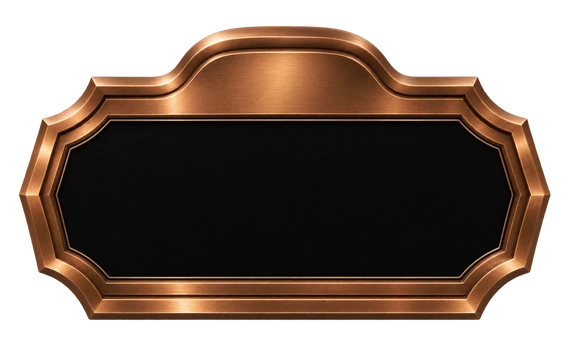
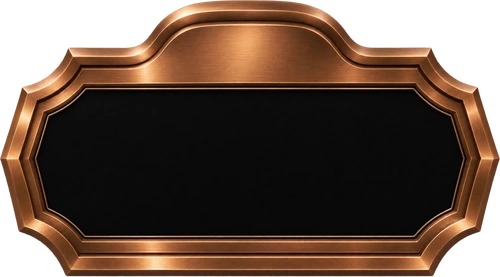
Normalized assets

diff --git a/Dev/BBGLDev.js b/Dev/BBGLDev.js
@@ -141,7 +141,7 @@
     // re-downloaded by the browser weekly. Pushing new or changed art to a pinned repo means
     // bumping its hash here, or the script keeps serving the old commit.
     const CDN_PINS = {
-        'BigBlackHawk42069/BigBlackGymLog': 'd7084ab11949755f6fe3bd76b860861589151a84'
+        'BigBlackHawk42069/BigBlackGymLog': 'c5b094c31c1bdea696364eb2d5e409561b9543b8'
     };
     const cdnize = u => u.replace(
         /^https:\/\/raw\.githubusercontent\.com\/([^/]+)\/([^/]+)\/(?:refs\/heads\/)?([^/]+)\//,
@@ -1714,11 +1714,10 @@
     const PLAQUE_BOARD_ART = { pineRaw: 'board-pine-raw', pine: 'board-pine', oak: 'board-oak', walnut: 'board-walnut' };
     const PLAQUE_DRAPE_ART = { canvas: 'drape-canvas', felt: 'drape-felt', velvet: 'drape-velvet' };
     const plaqueArtUrl = name => `url("${PLAQUE_ART_ROOT}${name}.webp")`;
-    // The images carry a margin for their own shadows: the board's is 12px round a 174 × 169 card, the
-    // drape's 6px round a 200 × 66 face (128 tall with the valance), so these insets put the art back
-    // where it was drawn at any card size.
-    const PLAQUE_BOARD_INSET = '-7.1% -6.9%';
-    const PLAQUE_DRAPE_INSET = `-9.06% -3% -${+((PLAQUE_VB_H / 96 - 1) * 100 + 9.06).toFixed(2)}% -3%`;
+    // The images are cropped to their visible pixels. The board fills the card; the drape spans x 6-234
+    // and y 5-100.5 of the fold lighting's 240 × 96-per-face-height grid, as % of the face.
+    const PLAQUE_BOARD_INSET = '0';
+    const PLAQUE_DRAPE_INSET = '1.04% 2.5% -0.52%';
     // One selector per step, joined: `suffix` targets a part of the card ('' for the card itself).
     const plaqueEach = (stages, suffix) => stages.map(s => `.bbgl-title-card.is-progressive[data-sign-stage="${s}"]${suffix}`).join(',\n');
     // One rule per distinct body, so steps that look the same share it. `body(step)` returns the
@@ -1800,35 +1799,35 @@
         plaqueRules(' .bbgl-title-card-title-label', step => PLAQUE_LETTERS[step.letters].label) +
         plaqueRules(' .bbgl-title-card-sign-face .bbgl-title-card-empty', step => PLAQUE_LETTERS[step.letters].label);
 
-    // Rank plates on the card, one image per finish. Each image is the plate plus a 14px shadow margin,
-    // so it's drawn on the label's ::before pushed out by that margin ([vertical, horizontal] % of the
-    // plate box); the face keeps its box, so the lettering and headings sit exactly as before. The image
-    // is also the face's mask, so the sweep and sheen stay on the plate's shape. Aluminum keeps its own
-    // aspect. The silver and gold surface lighting moves from the face to the label, so it lights the art.
+    // Rank plates on the card, one image per finish, cropped to the plate and fitted inside the plate box
+    // (contain, so a plate drawn narrower than its box isn't stretched). It sits on the label's ::before;
+    // the face keeps its box, so the lettering and headings sit exactly as before. The image is also the
+    // face's mask, so the sweep and sheen stay on the plate's shape. The silver and gold surface lighting
+    // moves from the face to the label, so it lights the art.
     const RANK_PLATE_ART = {
-        mill: ['plate-1-aluminum', 9.12, 9.91],
-        machined: ['plate-2-lightbox', 17.66, 9.41],
-        polished: ['plate-3-bronze', 15.54, 8.75],
-        silver: ['plate-4-silver', 15.54, 9.12],
-        gold: ['plate-5-gold', 14.92, 8.75],
-        pearl: ['plate-6-platinum', 14.92, 8.75]
+        mill: 'plate-1-aluminum',
+        machined: 'plate-2-lightbox',
+        polished: 'plate-3-bronze',
+        silver: 'plate-4-silver',
+        gold: 'plate-5-gold',
+        pearl: 'plate-6-platinum'
     };
-    const RANK_PLATE_CSS = Object.entries(RANK_PLATE_ART).map(([finish, [art, v, h]]) => `
+    const RANK_PLATE_CSS = Object.entries(RANK_PLATE_ART).map(([finish, art]) => `
 #bbgl-panel .bbgl-title-card-rank-plaque.finish-${finish} .bbgl-rank-notch-label::before {
-    inset: -${v}% -${h}%;
     background-image: ${plaqueArtUrl(art)};
 }
 
 #bbgl-panel .bbgl-title-card-rank-plaque.finish-${finish} .bbgl-rank-notch-face {
-    -webkit-mask: ${plaqueArtUrl(art)} center / ${+(100 + 2 * h).toFixed(2)}% ${+(100 + 2 * v).toFixed(2)}% no-repeat !important;
-    mask: ${plaqueArtUrl(art)} center / ${+(100 + 2 * h).toFixed(2)}% ${+(100 + 2 * v).toFixed(2)}% no-repeat !important;
+    -webkit-mask: ${plaqueArtUrl(art)} center / contain no-repeat !important;
+    mask: ${plaqueArtUrl(art)} center / contain no-repeat !important;
 }`).join('\n') + `
 
 #bbgl-panel .bbgl-title-card-rank-plaque .bbgl-rank-notch-label::before {
     content: '';
     position: absolute;
+    inset: 0;
     z-index: 0;
-    background: center / 100% 100% no-repeat;
+    background: center / contain no-repeat;
     pointer-events: none;
 }
 

diff --git a/Dev/src/04-section-iii-plaque.js b/Dev/src/04-section-iii-plaque.js
@@ -38,11 +38,10 @@
     const PLAQUE_BOARD_ART = { pineRaw: 'board-pine-raw', pine: 'board-pine', oak: 'board-oak', walnut: 'board-walnut' };
     const PLAQUE_DRAPE_ART = { canvas: 'drape-canvas', felt: 'drape-felt', velvet: 'drape-velvet' };
     const plaqueArtUrl = name => `url("${PLAQUE_ART_ROOT}${name}.webp")`;
-    // The images carry a margin for their own shadows: the board's is 12px round a 174 × 169 card, the
-    // drape's 6px round a 200 × 66 face (128 tall with the valance), so these insets put the art back
-    // where it was drawn at any card size.
-    const PLAQUE_BOARD_INSET = '-7.1% -6.9%';
-    const PLAQUE_DRAPE_INSET = `-9.06% -3% -${+((PLAQUE_VB_H / 96 - 1) * 100 + 9.06).toFixed(2)}% -3%`;
+    // The images are cropped to their visible pixels. The board fills the card; the drape spans x 6-234
+    // and y 5-100.5 of the fold lighting's 240 × 96-per-face-height grid, as % of the face.
+    const PLAQUE_BOARD_INSET = '0';
+    const PLAQUE_DRAPE_INSET = '1.04% 2.5% -0.52%';
     // One selector per step, joined: `suffix` targets a part of the card ('' for the card itself).
     const plaqueEach = (stages, suffix) => stages.map(s => `.bbgl-title-card.is-progressive[data-sign-stage="${s}"]${suffix}`).join(',\n');
     // One rule per distinct body, so steps that look the same share it. `body(step)` returns the
@@ -124,35 +123,35 @@
         plaqueRules(' .bbgl-title-card-title-label', step => PLAQUE_LETTERS[step.letters].label) +
         plaqueRules(' .bbgl-title-card-sign-face .bbgl-title-card-empty', step => PLAQUE_LETTERS[step.letters].label);
 
-    // Rank plates on the card, one image per finish. Each image is the plate plus a 14px shadow margin,
-    // so it's drawn on the label's ::before pushed out by that margin ([vertical, horizontal] % of the
-    // plate box); the face keeps its box, so the lettering and headings sit exactly as before. The image
-    // is also the face's mask, so the sweep and sheen stay on the plate's shape. Aluminum keeps its own
-    // aspect. The silver and gold surface lighting moves from the face to the label, so it lights the art.
+    // Rank plates on the card, one image per finish, cropped to the plate and fitted inside the plate box
+    // (contain, so a plate drawn narrower than its box isn't stretched). It sits on the label's ::before;
+    // the face keeps its box, so the lettering and headings sit exactly as before. The image is also the
+    // face's mask, so the sweep and sheen stay on the plate's shape. The silver and gold surface lighting
+    // moves from the face to the label, so it lights the art.
     const RANK_PLATE_ART = {
-        mill: ['plate-1-aluminum', 9.12, 9.91],
-        machined: ['plate-2-lightbox', 17.66, 9.41],
-        polished: ['plate-3-bronze', 15.54, 8.75],
-        silver: ['plate-4-silver', 15.54, 9.12],
-        gold: ['plate-5-gold', 14.92, 8.75],
-        pearl: ['plate-6-platinum', 14.92, 8.75]
+        mill: 'plate-1-aluminum',
+        machined: 'plate-2-lightbox',
+        polished: 'plate-3-bronze',
+        silver: 'plate-4-silver',
+        gold: 'plate-5-gold',
+        pearl: 'plate-6-platinum'
     };
-    const RANK_PLATE_CSS = Object.entries(RANK_PLATE_ART).map(([finish, [art, v, h]]) => `
+    const RANK_PLATE_CSS = Object.entries(RANK_PLATE_ART).map(([finish, art]) => `
 #bbgl-panel .bbgl-title-card-rank-plaque.finish-${finish} .bbgl-rank-notch-label::before {
-    inset: -${v}% -${h}%;
     background-image: ${plaqueArtUrl(art)};
 }
 
 #bbgl-panel .bbgl-title-card-rank-plaque.finish-${finish} .bbgl-rank-notch-face {
-    -webkit-mask: ${plaqueArtUrl(art)} center / ${+(100 + 2 * h).toFixed(2)}% ${+(100 + 2 * v).toFixed(2)}% no-repeat !important;
-    mask: ${plaqueArtUrl(art)} center / ${+(100 + 2 * h).toFixed(2)}% ${+(100 + 2 * v).toFixed(2)}% no-repeat !important;
+    -webkit-mask: ${plaqueArtUrl(art)} center / contain no-repeat !important;
+    mask: ${plaqueArtUrl(art)} center / contain no-repeat !important;
 }`).join('\n') + `
 
 #bbgl-panel .bbgl-title-card-rank-plaque .bbgl-rank-notch-label::before {
     content: '';
     position: absolute;
+    inset: 0;
     z-index: 0;
-    background: center / 100% 100% no-repeat;
+    background: center / contain no-repeat;
     pointer-events: none;
 }
 

diff --git a/Dev/src/02-section-i-constants.js b/Dev/src/02-section-i-constants.js
@@ -74,7 +74,7 @@
     // re-downloaded by the browser weekly. Pushing new or changed art to a pinned repo means
     // bumping its hash here, or the script keeps serving the old commit.
     const CDN_PINS = {
-        'BigBlackHawk42069/BigBlackGymLog': 'd7084ab11949755f6fe3bd76b860861589151a84'
+        'BigBlackHawk42069/BigBlackGymLog': 'c5b094c31c1bdea696364eb2d5e409561b9543b8'
     };
     const cdnize = u => u.replace(
         /^https:\/\/raw\.githubusercontent\.com\/([^/]+)\/([^/]+)\/(?:refs\/heads\/)?([^/]+)\//,
